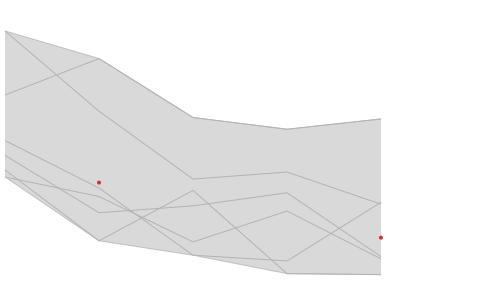
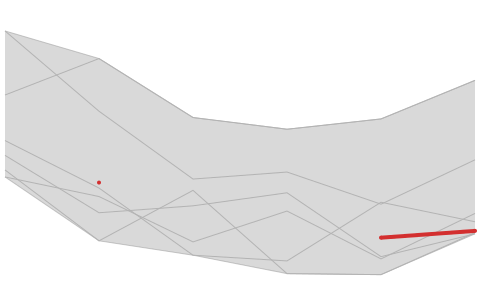
Update race statistics

Changed region(s): [[0.7812, 0.27, 1.0, 0.93]]

diff --git a/docs/charts/men-freshmen.html b/docs/charts/men-freshmen.html
@@ -10,7 +10,7 @@
 <body>
 <div id="wrap"><canvas id="c" style="width:100%"></canvas></div>
 <script>
-const CHART = {"title": "Men Freshmen", "regattas": ["Kai ʻEhitu", "Keauhou", "Kai ʻŌpua", "Kailana", "Keaukaha", "Puna"], "dates": ["05-16", "05-23", "06-06", "06-13", "06-20", "06-27"], "fastest": [234.42, 221.21, 218.23, 214.42, 214.21, null], "slowest": [264.63, 258.92, 246.72, 244.3, 246.43, null], "teams": [{"name": "Kawaihae", "line": "#D32F2F", "point": "#FFFFFF", "emphasize": true, "times": [null, 233.26, null, null, 221.86, null]}, {"name": "Kai ʻEhitu", "line": "#D32F2F", "point": "#FFFFFF", "dash": true, "times": [235.87, 221.21, 231.65, 214.42, 214.21, null]}, {"name": "Kamehameha - Hilo", "line": "#CBB994", "point": "#D32F2F", "times": [264.63, 248.02, 233.99, 235.44, 228.79, null]}, {"name": "Keauhou", "line": "#2E7D32", "point": "#FFFFFF", "times": [251.38, 258.92, 246.72, 244.3, 246.43, null]}, {"name": "Keaukaha", "line": "#4FC3F7", "point": "#D4AF37", "times": [234.42, 230.37, 220.99, 227.37, 217.47, null]}, {"name": "Keōua Hōnaunau", "line": "#FFF176", "point": "#D32F2F", "times": [238.89, 227.02, 228.45, 231.15, 217.94, null]}, {"name": "Puna", "line": "#FBC02D", "point": "#2E7D32", "times": [241.95, 232.13, 218.23, 217.05, 229.19, null]}], "dqs": [null, null, null, null, null, null]};
+const CHART = {"title": "Men Freshmen", "regattas": ["Kai ʻEhitu", "Keauhou", "Kai ʻŌpua", "Kailana", "Keaukaha", "Puna"], "dates": ["05-16", "05-23", "06-06", "06-13", "06-20", "06-27"], "fastest": [234.42, 221.21, 218.23, 214.42, 214.21, 222.66], "slowest": [264.63, 258.92, 246.72, 244.3, 246.43, 254.41], "teams": [{"name": "Kawaihae", "line": "#D32F2F", "point": "#FFFFFF", "emphasize": true, "times": [null, 233.26, null, null, 221.86, 223.27]}, {"name": "Kai ʻEhitu", "line": "#D32F2F", "point": "#FFFFFF", "dash": true, "times": [235.87, 221.21, 231.65, 214.42, 214.21, 222.89]}, {"name": "Kamehameha - Hilo", "line": "#CBB994", "point": "#D32F2F", "times": [264.63, 248.02, 233.99, 235.44, 228.79, 237.97]}, {"name": "Keauhou", "line": "#2E7D32", "point": "#FFFFFF", "times": [251.38, 258.92, 246.72, 244.3, 246.43, 254.41]}, {"name": "Keaukaha", "line": "#4FC3F7", "point": "#D4AF37", "times": [234.42, 230.37, 220.99, 227.37, 217.47, 226.88]}, {"name": "Keōua Hōnaunau", "line": "#FFF176", "point": "#D32F2F", "times": [238.89, 227.02, 228.45, 231.15, 217.94, 222.66]}, {"name": "Puna", "line": "#FBC02D", "point": "#2E7D32", "times": [241.95, 232.13, 218.23, 217.05, 229.19, 225.15]}], "dqs": [null, null, null, null, null, null]};
 const THUMB = new URLSearchParams(location.search).has("thumb");
 function mmss(v){let m=Math.floor(v/60);let s=(v-m*60).toFixed(2).padStart(5,"0");return m+":"+s;}
 window.onload = function () {

diff --git a/docs/charts/summary.html b/docs/charts/summary.html
@@ -11,7 +11,7 @@
 <body>
 <div id="wrap"><canvas id="c" style="width:100%"></canvas></div>
 <script>
-const SUMMARY = {"labels": ["10", "12", "13", "14", "15", "16", "18", "Novice B", "Novice A", "Freshmen", "Sophomore", "Junior", "40", "50", "55", "60", "65", "70", "Open Four", "Open Mixed"], "datasets": [{"label": "Men", "data": [{"x": 0.0, "y": 364.16}, {"x": 1.0, "y": 272.01}, {"x": 2.0, "y": 266.25}, {"x": 3.0, "y": 257.6}, {"x": 4.0, "y": 269.88}, {"x": 5.0, "y": 255.74}, {"x": 6.0, "y": 243.38}, {"x": 7.0, "y": 231.17}, {"x": 8.0, "y": 245.38}, {"x": 9.0, "y": 227.56}, {"x": 10.0, "y": 252.29}, {"x": 11.0, "y": 239.75}, null, {"x": 13.0, "y": 271.53}, {"x": 14.0, "y": 281.94}, {"x": 15.0, "y": 275.11}, {"x": 16.0, "y": 266.24}, null, {"x": 18.0, "y": 259.67}, null], "errorBars": [{"lo": 309.25, "hi": 431.78}, {"lo": 255.19, "hi": 311.72}, {"lo": 227.98, "hi": 283.98}, {"lo": 220.92, "hi": 279.47}, {"lo": 247.67, "hi": 281.22}, {"lo": 242.88, "hi": 277.07}, {"lo": 230.37, "hi": 259.67}, {"lo": 206.05, "hi": 245.2}, {"lo": 240.43, "hi": 258.11}, {"lo": 221.86, "hi": 233.26}, {"lo": 252.21, "hi": 265.88}, {"lo": 231.24, "hi": 248.26}, null, {"lo": 243.04, "hi": 281.67}, {"lo": 263.57, "hi": 290.24}, {"lo": 254.67, "hi": 278.69}, {"lo": 254.87, "hi": 272.4}, null, {"lo": 248.14, "hi": 265.49}, null], "borderColor": "#1565C0", "backgroundColor": "#1565C0"}, {"label": "Women", "data": [{"x": 0.15, "y": 351.29}, {"x": 1.15, "y": 282.08}, {"x": 2.15, "y": 281.48}, {"x": 3.15, "y": 259.75}, {"x": 4.15, "y": 279.84}, {"x": 5.15, "y": 296.26}, {"x": 6.15, "y": 300.32}, {"x": 7.15, "y": 270.02}, {"x": 8.15, "y": 290.5}, {"x": 9.15, "y": 267.69}, {"x": 10.15, "y": 307.0}, null, {"x": 12.15, "y": 270.32}, {"x": 13.15, "y": 308.75}, {"x": 14.15, "y": 291.16}, {"x": 15.15, "y": 333.96}, {"x": 16.15, "y": 320.88}, {"x": 17.15, "y": 309.41}, {"x": 18.15, "y": 342.19}, null], "errorBars": [{"lo": 305.11, "hi": 434.93}, {"lo": 246.33, "hi": 295.39}, {"lo": 267.1, "hi": 296.29}, {"lo": 241.96, "hi": 285.18}, {"lo": 257.09, "hi": 287.73}, {"lo": 266.3, "hi": 309.24}, {"lo": 282.67, "hi": 322.34}, {"lo": 261.26, "hi": 323.76}, {"lo": 277.24, "hi": 304.34}, {"lo": 261.01, "hi": 271.82}, {"lo": 297.4, "hi": 320.58}, null, {"lo": 257.31, "hi": 278.85}, {"lo": 277.18, "hi": 316.13}, {"lo": 261.57, "hi": 303.04}, {"lo": 301.19, "hi": 342.06}, {"lo": 292.11, "hi": 322.48}, {"lo": 294.0, "hi": 330.32}, {"lo": 299.54, "hi": 355.5}, null], "borderColor": "#AD1457", "backgroundColor": "#AD1457"}, {"label": "Mixed", "data": [null, {"x": 1.3, "y": 270.09}, null, null, null, null, {"x": 6.3, "y": 263.76}, {"x": 7.3, "y": 260.65}, null, null, null, null, {"x": 12.3, "y": 274.61}, null, {"x": 14.3, "y": 275.05}, null, null, null, null, {"x": 19.0, "y": 279.24}], "errorBars": [null, {"lo": 244.02, "hi": 312.75}, null, null, null, null, {"lo": 251.4, "hi": 271.47}, {"lo": 232.74, "hi": 289.42}, null, null, null, null, {"lo": 269.05, "hi": 296.93}, null, {"lo": 252.95, "hi": 304.74}, null, null, null, null, {"lo": 253.69, "hi": 295.41}], "borderColor": "#2E7D32", "backgroundColor": "#2E7D32"}], "yMin": 194.6, "yMax": 446.4};
+const SUMMARY = {"labels": ["10", "12", "13", "14", "15", "16", "18", "Novice B", "Novice A", "Freshmen", "Sophomore", "Junior", "40", "50", "55", "60", "65", "70", "Open Four", "Open Mixed"], "datasets": [{"label": "Men", "data": [{"x": 0.0, "y": 364.16}, {"x": 1.0, "y": 272.01}, {"x": 2.0, "y": 266.25}, {"x": 3.0, "y": 257.6}, {"x": 4.0, "y": 269.88}, {"x": 5.0, "y": 255.74}, {"x": 6.0, "y": 243.38}, {"x": 7.0, "y": 231.17}, {"x": 8.0, "y": 245.38}, {"x": 9.0, "y": 223.27}, {"x": 10.0, "y": 252.29}, {"x": 11.0, "y": 239.75}, null, {"x": 13.0, "y": 271.53}, {"x": 14.0, "y": 281.94}, {"x": 15.0, "y": 275.11}, {"x": 16.0, "y": 266.24}, null, {"x": 18.0, "y": 259.67}, null], "errorBars": [{"lo": 309.25, "hi": 431.78}, {"lo": 255.19, "hi": 311.72}, {"lo": 227.98, "hi": 283.98}, {"lo": 220.92, "hi": 279.47}, {"lo": 247.67, "hi": 281.22}, {"lo": 242.88, "hi": 277.07}, {"lo": 230.37, "hi": 259.67}, {"lo": 206.05, "hi": 245.2}, {"lo": 240.43, "hi": 258.11}, {"lo": 221.86, "hi": 233.26}, {"lo": 252.21, "hi": 265.88}, {"lo": 231.24, "hi": 248.26}, null, {"lo": 243.04, "hi": 281.67}, {"lo": 263.57, "hi": 290.24}, {"lo": 254.67, "hi": 278.69}, {"lo": 254.87, "hi": 272.4}, null, {"lo": 248.14, "hi": 265.49}, null], "borderColor": "#1565C0", "backgroundColor": "#1565C0"}, {"label": "Women", "data": [{"x": 0.15, "y": 351.29}, {"x": 1.15, "y": 282.08}, {"x": 2.15, "y": 281.48}, {"x": 3.15, "y": 259.75}, {"x": 4.15, "y": 279.84}, {"x": 5.15, "y": 296.26}, {"x": 6.15, "y": 300.32}, {"x": 7.15, "y": 270.02}, {"x": 8.15, "y": 290.5}, {"x": 9.15, "y": 267.16}, {"x": 10.15, "y": 307.0}, null, {"x": 12.15, "y": 270.32}, {"x": 13.15, "y": 308.75}, {"x": 14.15, "y": 291.16}, {"x": 15.15, "y": 333.96}, {"x": 16.15, "y": 320.88}, {"x": 17.15, "y": 309.41}, {"x": 18.15, "y": 342.19}, null], "errorBars": [{"lo": 305.11, "hi": 434.93}, {"lo": 246.33, "hi": 295.39}, {"lo": 267.1, "hi": 296.29}, {"lo": 241.96, "hi": 285.18}, {"lo": 257.09, "hi": 287.73}, {"lo": 266.3, "hi": 309.24}, {"lo": 282.67, "hi": 322.34}, {"lo": 261.26, "hi": 323.76}, {"lo": 277.24, "hi": 304.34}, {"lo": 260.18, "hi": 271.82}, {"lo": 297.4, "hi": 320.58}, null, {"lo": 257.31, "hi": 278.85}, {"lo": 277.18, "hi": 316.13}, {"lo": 261.57, "hi": 303.04}, {"lo": 301.19, "hi": 342.06}, {"lo": 292.11, "hi": 322.48}, {"lo": 294.0, "hi": 330.32}, {"lo": 299.54, "hi": 355.5}, null], "borderColor": "#AD1457", "backgroundColor": "#AD1457"}, {"label": "Mixed", "data": [null, {"x": 1.3, "y": 270.09}, null, null, null, null, {"x": 6.3, "y": 263.76}, {"x": 7.3, "y": 260.65}, null, null, null, null, {"x": 12.3, "y": 274.61}, null, {"x": 14.3, "y": 275.05}, null, null, null, null, {"x": 19.0, "y": 279.24}], "errorBars": [null, {"lo": 244.02, "hi": 312.75}, null, null, null, null, {"lo": 251.4, "hi": 271.47}, {"lo": 232.74, "hi": 289.42}, null, null, null, null, {"lo": 269.05, "hi": 296.93}, null, {"lo": 252.95, "hi": 304.74}, null, null, null, null, {"lo": 253.69, "hi": 295.41}], "borderColor": "#2E7D32", "backgroundColor": "#2E7D32"}], "yMin": 194.6, "yMax": 446.4};
 const THUMB = new URLSearchParams(location.search).has("thumb");
 function mmss(v){let m=Math.floor(v/60);let s=(v-m*60).toFixed(2).padStart(5,"0");return m+":"+s;}
 

diff --git a/docs/charts/women-freshmen.html b/docs/charts/women-freshmen.html
@@ -10,7 +10,7 @@
 <body>
 <div id="wrap"><canvas id="c" style="width:100%"></canvas></div>
 <script>
-const CHART = {"title": "Women Freshmen", "regattas": ["Kai ʻEhitu", "Keauhou", "Kai ʻŌpua", "Kailana", "Keaukaha", "Puna"], "dates": ["05-16", "05-23", "06-06", "06-13", "06-20", "06-27"], "fastest": [266.63, 261.01, 264.01, 257.33, 249.05, null], "slowest": [318.81, 296.51, 307.42, 300.0, 290.93, null], "teams": [{"name": "Kawaihae", "line": "#D32F2F", "point": "#FFFFFF", "emphasize": true, "times": [266.63, 261.01, 271.82, 268.63, 267.69, null]}, {"name": "Kai Opua", "line": "#1565C0", "point": "#FFFFFF", "times": [280.87, 274.52, 268.92, 264.58, 253.47, null]}, {"name": "Kai ʻEhitu", "line": "#D32F2F", "point": "#FFFFFF", "dash": true, "times": [282.24, 277.42, null, null, null, null]}, {"name": "Kamehameha - Hilo", "line": "#CBB994", "point": "#D32F2F", "times": [292.26, 296.51, 291.62, 291.25, null, null]}, {"name": "Keaukaha", "line": "#4FC3F7", "point": "#D4AF37", "times": [318.81, 289.73, 307.42, 294.7, 290.93, null]}, {"name": "Keōua Hōnaunau", "line": "#FFF176", "point": "#D32F2F", "times": [272.29, 261.26, 264.01, 267.42, 263.5, null]}, {"name": "Puna", "line": "#FBC02D", "point": "#2E7D32", "times": [276.7, 274.17, 266.87, 257.33, 249.05, null]}, {"name": "Waikoloa", "line": "#7B1FA2", "point": "#FFFFFF", "times": [288.62, 287.54, 277.48, 300.0, null, null]}], "dqs": [null, null, null, null, null, null]};
+const CHART = {"title": "Women Freshmen", "regattas": ["Kai ʻEhitu", "Keauhou", "Kai ʻŌpua", "Kailana", "Keaukaha", "Puna"], "dates": ["05-16", "05-23", "06-06", "06-13", "06-20", "06-27"], "fastest": [266.63, 261.01, 264.01, 257.33, 249.05, 250.51], "slowest": [318.81, 296.51, 307.42, 300.0, 290.93, 281.53], "teams": [{"name": "Kawaihae", "line": "#D32F2F", "point": "#FFFFFF", "emphasize": true, "times": [266.63, 261.01, 271.82, 268.63, 267.69, 260.18]}, {"name": "Kai Opua", "line": "#1565C0", "point": "#FFFFFF", "times": [280.87, 274.52, 268.92, 264.58, 253.47, 250.51]}, {"name": "Kai ʻEhitu", "line": "#D32F2F", "point": "#FFFFFF", "dash": true, "times": [282.24, 277.42, null, null, null, 277.62]}, {"name": "Kamehameha - Hilo", "line": "#CBB994", "point": "#D32F2F", "times": [292.26, 296.51, 291.62, 291.25, null, 276.17]}, {"name": "Keaukaha", "line": "#4FC3F7", "point": "#D4AF37", "times": [318.81, 289.73, 307.42, 294.7, 290.93, 276.56]}, {"name": "Keōua Hōnaunau", "line": "#FFF176", "point": "#D32F2F", "times": [272.29, 261.26, 264.01, 267.42, 263.5, 250.92]}, {"name": "Puna", "line": "#FBC02D", "point": "#2E7D32", "times": [276.7, 274.17, 266.87, 257.33, 249.05, 258.09]}, {"name": "Waikoloa", "line": "#7B1FA2", "point": "#FFFFFF", "times": [288.62, 287.54, 277.48, 300.0, null, 281.53]}], "dqs": [null, null, null, null, null, null]};
 const THUMB = new URLSearchParams(location.search).has("thumb");
 function mmss(v){let m=Math.floor(v/60);let s=(v-m*60).toFixed(2).padStart(5,"0");return m+":"+s;}
 window.onload = function () {